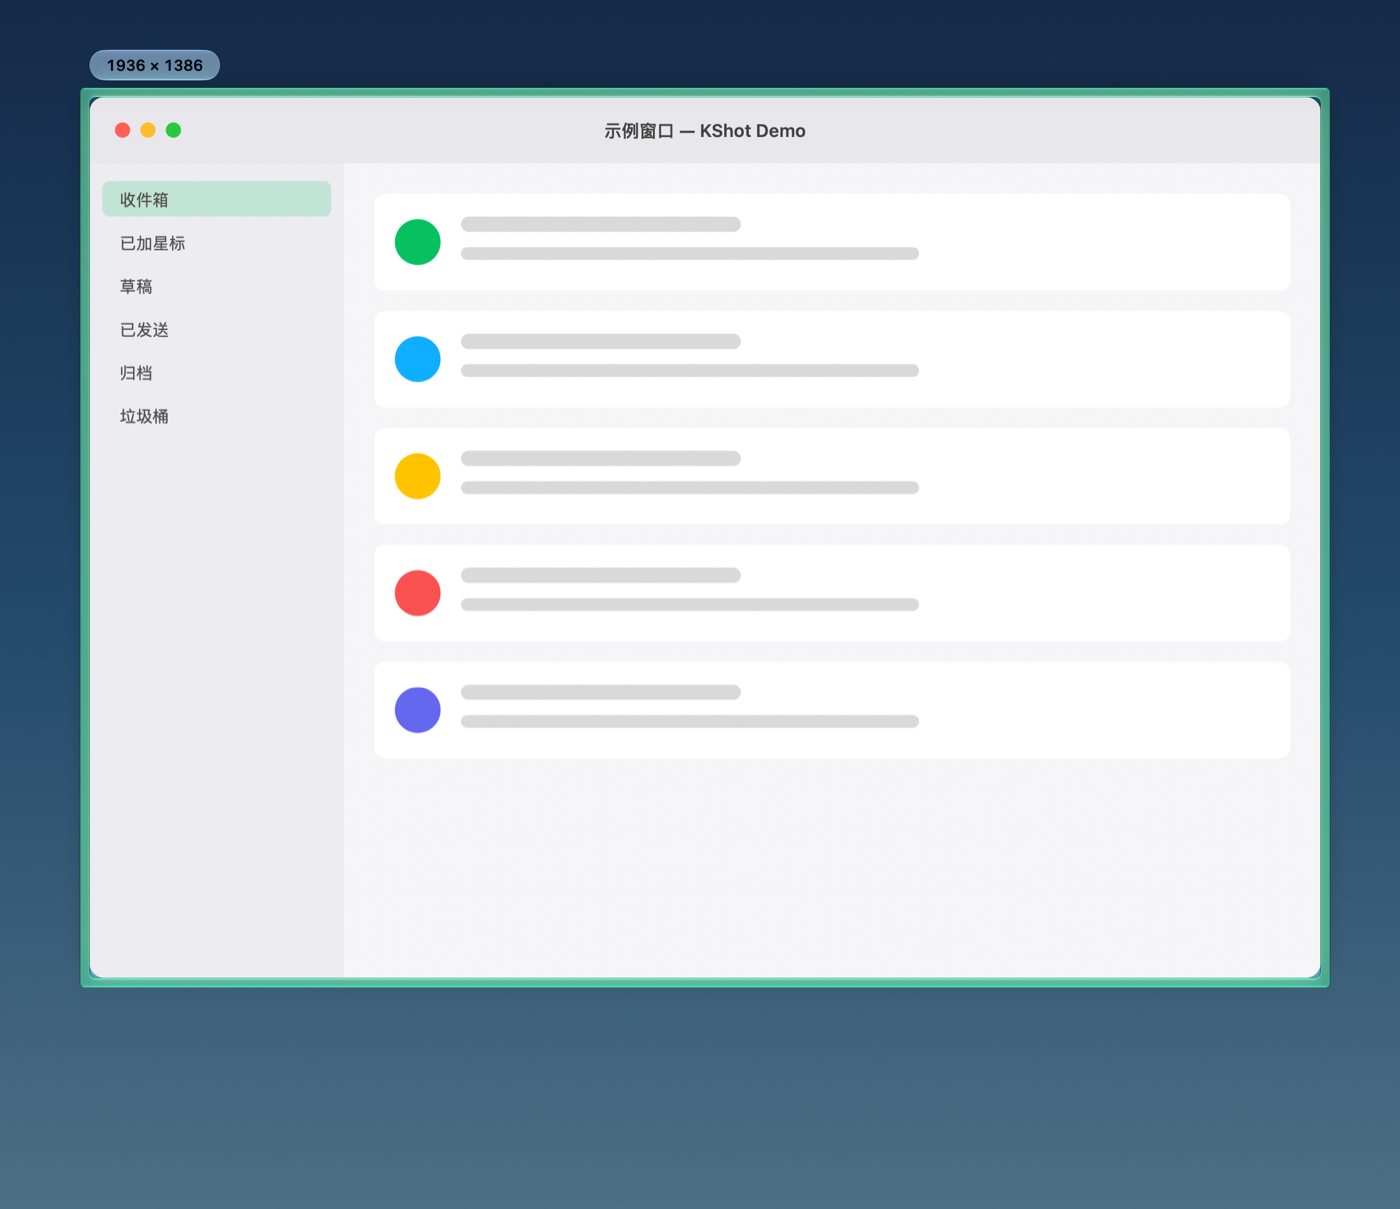
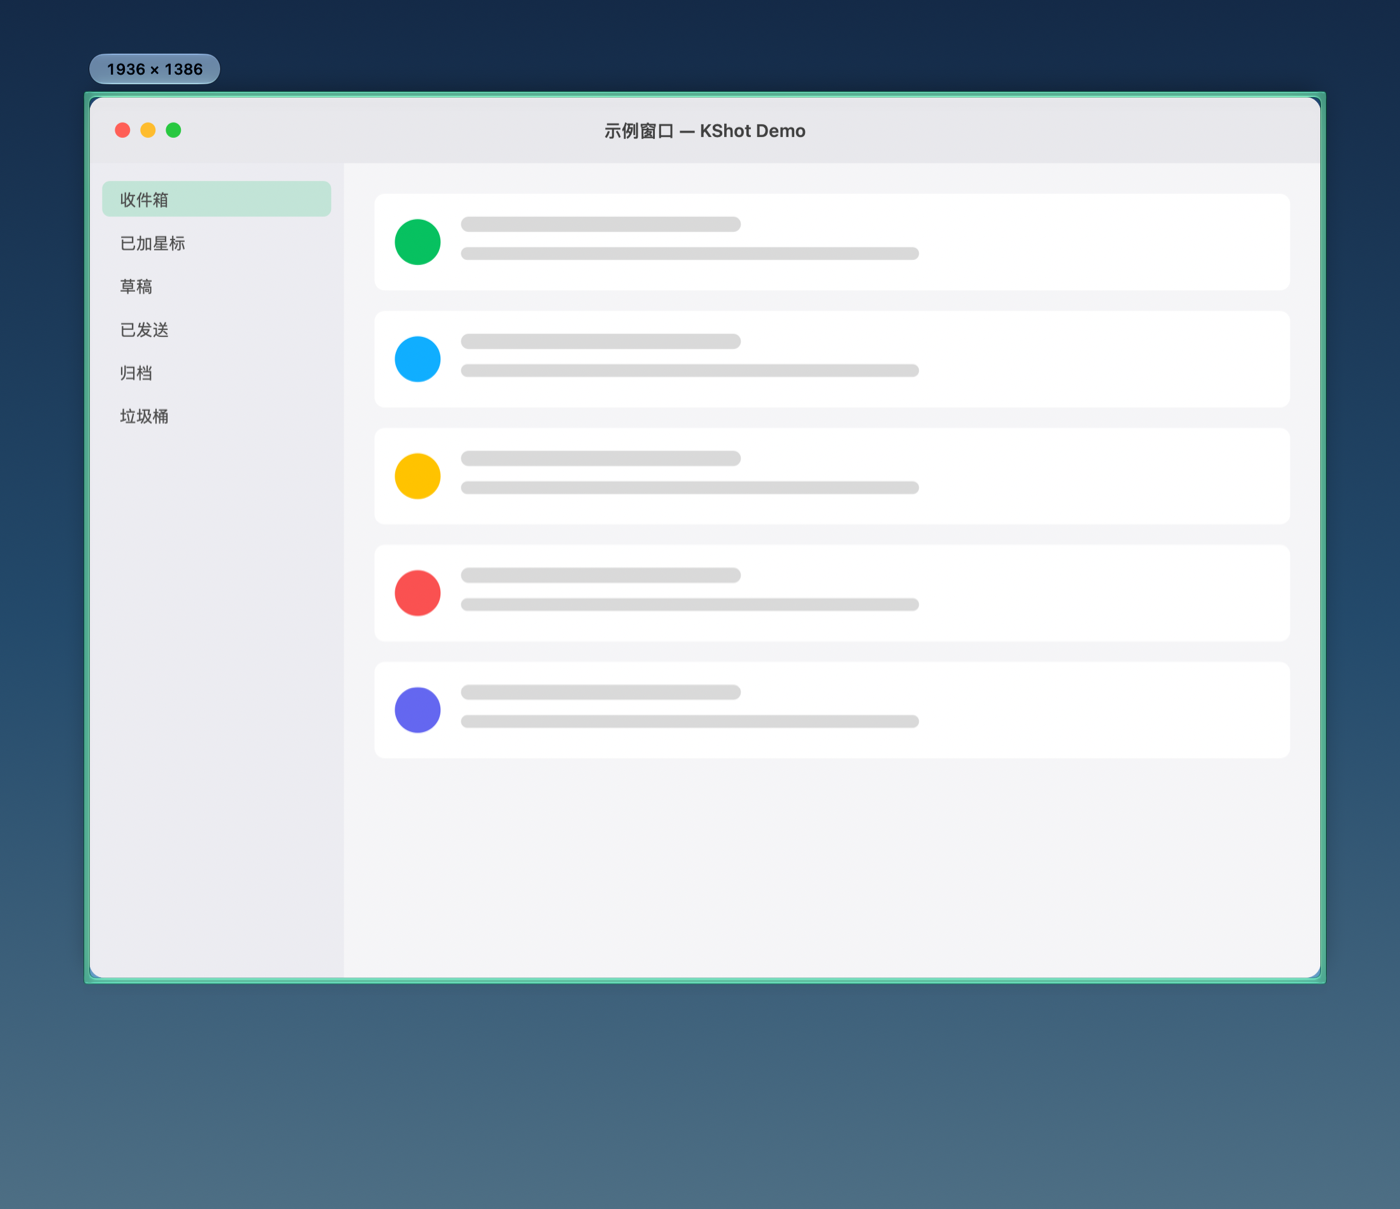
悬停玻璃框减细到 4pt，选区绿线减细到 1.5pt

Changed region(s): [[0.0614, 0.5815, 0.9521, 0.8263], [0.0614, 0.0306, 0.9521, 0.0918]]

diff --git a/Sources/KShot/OverlayView.swift b/Sources/KShot/OverlayView.swift
@@ -161,8 +161,8 @@ final class OverlayView: NSView {
         // 4. 边框（悬停状态用玻璃框子视图，选区用细线）
         if selection != nil {
             ctx.setStrokeColor(NSColor.wechatGreen.cgColor)
-            ctx.setLineWidth(2)
-            ctx.stroke(cut.insetBy(dx: -1, dy: -1))
+            ctx.setLineWidth(1.5)
+            ctx.stroke(cut.insetBy(dx: -0.75, dy: -0.75))
         }
 
     }

diff --git a/Sources/KShot/GlassBackdrop.swift b/Sources/KShot/GlassBackdrop.swift
@@ -128,7 +128,7 @@ final class RingView: NSView {
 
 /// 玻璃边框：四条玻璃条拼成一圈，macOS 26+ 用容器视图把它们融合成连续的框
 final class GlassFrameView: NSView {
-    static let thickness: CGFloat = 7
+    static let thickness: CGFloat = 4
     private var strips: [NSView] = []
     private var host: NSView?
 
